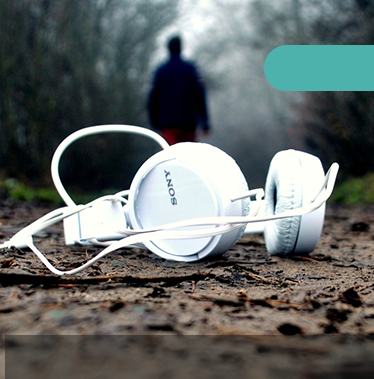
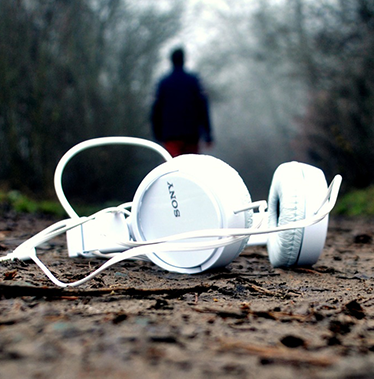
kol 2

diff --git a/Homework1/ui.css b/Homework1/ui.css
@@ -418,3 +418,53 @@ body {
                             color: #7e7e7e;
                         }
 
+        .second-col-two {
+            width: 368px;
+            height: 525px;
+        }
+
+            .second-col-two-top {
+                width: 368px;
+                height: 372px;
+                background-image: url(./SLIKI/sony.png);
+                border-top-left-radius: 20px;
+                border-top-right-radius: 20px;
+                margin-top: 76px;
+            }
+
+                .price {
+                    position: absolute;
+                    width: 109px;
+                    height: 46px;
+                    border: none;
+                    color: #fff;
+                    font-size: 21px;
+                    background-color: #4db2ac;
+                    border-top-left-radius: 30px;
+                    border-bottom-left-radius: 30px;
+                    margin-top: 38px;
+                    margin-left: 259px;
+                }
+
+                .menu-line {
+                    width: 368px;
+                    height: 44px;
+                    background-color: #2e2d36; opacity:0.9;
+                    position: absolute;
+                    margin-top: 330px;
+                }
+
+                .menu-line {
+                    position: absolute;
+                    display: flex;
+                    flex-direction: row;
+                    flex-wrap: nowrap;
+                    justify-content: flex-end;
+                    align-content: space-between;
+                }
+
+                    .icon {
+                        position: absolute;
+                        color: #ffffff;
+                        line-height: 5px;
+                    }

diff --git a/Homework1/ui.html b/Homework1/ui.html
@@ -150,7 +150,17 @@
             <!-- nemam oznacen den , nemam tocki na denovi -->
 
         <div class="second-col-two">
+            <div class="second-col-two-top">
+                <button class="price">$99</button>
+                <span class="menu-line">
+                    <img class="icon-menu" src="./SLIKi/Shop.png">
+                    <img class="icon-menu" src="./SLIKI/Star.png">
+                    <img class="icon-menu" src="./SLIKI/Menu .png">
+                </span>
+            </div>
+            <div class="second-col-two-bottom">
 
+            </div>
         </div>
 
         </div>
